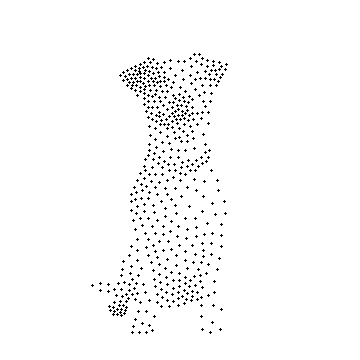
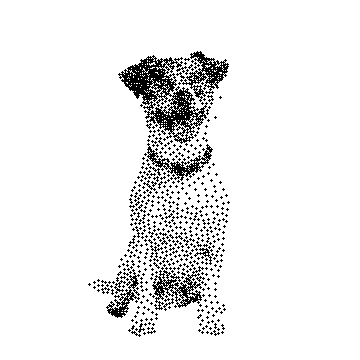
Implementing WORKING Tour Output
- One line fix in obtaining the best coordinates

Changed region(s): [[0.2444, 0.1222, 0.6417, 0.9472]]

diff --git a/src/main/java/edu/stockton/project/TSPArtExample.java b/src/main/java/edu/stockton/project/TSPArtExample.java
@@ -1,10 +1,8 @@
 package edu.stockton.project;
 
-import java.awt.Graphics2D;
-import java.awt.image.BufferedImage;
-import java.io.File;
+import java.awt.Color;
 import java.io.IOException;
-import javax.imageio.ImageIO;
+import java.util.Arrays;
 import org.cicirello.permutations.Permutation;
 import org.cicirello.search.SolutionCostPair;
 import org.cicirello.search.evo.FitnessProportionalSelection;
@@ -21,16 +19,13 @@ import org.knowm.xchart.XYSeries;
 import org.knowm.xchart.style.lines.SeriesLines;
 import org.knowm.xchart.style.markers.SeriesMarkers;
 
-import java.awt.Color;
-
-
 public class TSPArtExample {
   /* Private constructor to prevent instantiation. */
   private TSPArtExample() {}
 
   public static double[][] generateTour(double[][] points) {
     // int numCities = (int) CSVwriter.countLinesInCSV("output3.csv");
-    int maxGenerations = 1000;
+    int maxGenerations = 100000;
 
     double[] xPoints;
     double[] yPoints;
@@ -38,10 +33,17 @@ public class TSPArtExample {
     xPoints = points[0];
     yPoints = points[1];
 
+    StringBuilder printValue = new StringBuilder();
+    for (int i = 0; i < xPoints.length; i++) {
+      printValue.append("(").append(xPoints[i]).append(", ").append(yPoints[i]).append(") -> ");
+    }
+
+    System.out.println(printValue);
+
     TSP.Double problem = new TSP.Double(xPoints, yPoints);
 
     int populationSize = 100;
-    int numElite = 1;
+    int numElite = 10;
 
     double bestLength = Double.MAX_VALUE;
     Permutation bestPermutation = null;
@@ -51,40 +53,64 @@ public class TSPArtExample {
     System.out.println("-------------------------------------------------");
     System.out.printf("%-25s%12s%n", "EA", "best-tour-length");
     System.out.println("-------------------------------------------------");
-    for (double crossoverRate = 0.1; crossoverRate < 0.95; crossoverRate += 0.2) {
-      for (double mutationRate = 0.1; mutationRate < 0.95; mutationRate += 0.2) {
-        GenerationalEvolutionaryAlgorithm<Permutation> ea =
-            new GenerationalEvolutionaryAlgorithm<Permutation>(
-                populationSize,
-                new ReversalMutation(),
-                mutationRate,
-                new EnhancedEdgeRecombination(),
-                crossoverRate,
-                new PermutationInitializer(xPoints.length),
-                new InverseCostFitnessFunction<Permutation>(problem),
-                new FitnessProportionalSelection(),
-                numElite);
-        SolutionCostPair<Permutation> solution = ea.optimize(maxGenerations);
-        Permutation solutionPermutation = solution.getSolution();
-        double solutionLength = problem.value(solutionPermutation);
-        String gaStr = String.format("C=%.1f; M=%.1f", crossoverRate, mutationRate);
-        System.out.printf("%-25s%12f%n", gaStr, solutionLength);
-        System.out.println(solutionPermutation);
+    //    for (double crossoverRate = 0.1; crossoverRate < 0.95; crossoverRate += 0.2) {
+    //      for (double mutationRate = 0.1; mutationRate < 0.95; mutationRate += 0.2) {
+    double mutationRate = 0.3;
+    double crossoverRate = 0.1;
+    GenerationalEvolutionaryAlgorithm<Permutation> ea =
+        new GenerationalEvolutionaryAlgorithm<Permutation>(
+            populationSize,
+            new ReversalMutation(),
+            mutationRate,
+            new EnhancedEdgeRecombination(),
+            crossoverRate,
+            new PermutationInitializer(xPoints.length),
+            new InverseCostFitnessFunction<Permutation>(problem),
+            new FitnessProportionalSelection(),
+            numElite);
+    SolutionCostPair<Permutation> solution = ea.optimize(maxGenerations);
+    Permutation solutionPermutation = solution.getSolution();
+    double solutionLength = problem.value(solutionPermutation);
+    String gaStr = String.format("C=%.1f; M=%.1f", crossoverRate, mutationRate);
+    System.out.printf("%-25s%12f%n", gaStr, solutionLength);
 
-        if (bestLength > solutionLength) {
-          bestPermutation = solutionPermutation;
-          bestLength = solutionLength;
-        }
-      }
+    if (bestLength > solutionLength) {
+      bestPermutation = solutionPermutation;
+      bestLength = solutionLength;
     }
+    //      }
+    //    }
 
     // Obtain best coordinates
-    int j = 0;
     double[][] tour = new double[xPoints.length][2];
+    assert bestPermutation != null;
+    printValue = new StringBuilder();
+    int j = 0;
     for (int i : bestPermutation.toArray()) {
       tour[j] = new double[] {xPoints[i], yPoints[i]};
       j++;
+      printValue.append("(").append(xPoints[i]).append(", ").append(yPoints[i]).append(") -> ");
     }
+
+    double[] distances = new double[xPoints.length + 1];
+    for (int i = 1; i < xPoints.length; i++) {
+      double x1 = tour[i - 1][0];
+      double y1 = tour[i - 1][1];
+      double x2 = tour[i][0];
+      double y2 = tour[i][1];
+      distances[i] = Math.sqrt(Math.pow(x2 - x1, 2) + Math.pow(y2 - y1, 2));
+      System.out.print(distances[i] + ", ");
+    }
+
+    System.out.println();
+
+    System.out.println("MAX DISTANCE:");
+    System.out.println(Arrays.stream(distances).max());
+
+    System.out.println("MIN DISTANCE:");
+    System.out.println(Arrays.stream(distances).min());
+
+    System.out.println(printValue);
 
     return tour;
   }
@@ -95,7 +121,6 @@ public class TSPArtExample {
     double[] xData = new double[tour.length + 1];
     double[] yData = new double[tour.length + 1];
 
-
     for (int i = 0; i < tour.length; i++) {
       xData[i] = tour[i][0];
       yData[i] = dimensions[1] - tour[i][1]; // Invert y coordinates
@@ -105,13 +130,8 @@ public class TSPArtExample {
     xData[tour.length] = tour[0][0];
     yData[tour.length] = tour[0][1];
 
-
-
     // Create chart
-    XYChart chart = new XYChartBuilder()
-            .width(dimensions[0])
-            .height(dimensions[1])
-            .build();
+    XYChart chart = new XYChartBuilder().width(dimensions[0]).height(dimensions[1]).build();
 
     // Customize chart
     chart.getStyler().setChartBackgroundColor(Color.white);
@@ -138,40 +158,5 @@ public class TSPArtExample {
     series.setLineWidth(1.0f);
 
     BitmapEncoder.saveBitmap(chart, outputPath, BitmapEncoder.BitmapFormat.PNG);
-
-
-//    BufferedImage image =
-//        new BufferedImage(dimensions[0], dimensions[1], BufferedImage.TYPE_BYTE_GRAY);
-//
-//    Graphics2D g2d = image.createGraphics();
-//
-//    drawLine(tour[0], tour[1], g2d);
-//    for (int i = 1; i < tour.length; i++) {
-//      drawLine(tour[i - 1], tour[i], g2d);
-//    }
-//    drawLine(tour[tour.length - 1], tour[0], g2d);
-//
-//    g2d.dispose();
-//
-//    ImageIO.write(image, "png", new File(outputPath));
-//    System.out.println("Image saved to " + outputPath);
-
-    //    Graphics2D image =
-    //        new BufferedImage(dimensions[0], dimensions[1], BufferedImage.TYPE_BYTE_GRAY)
-    //            .createGraphics();
-
-    //    drawLine(tour[0], tour[1], image);
-    //    for (int i = 1; i < tour.length; i++) {
-    //      drawLine(tour[i - 1], tour[i], image);
-    //    }
-    //    drawLine(tour[tour.length - 1], tour[0], image);
-  }
-
-  private static void drawLine(double[] point1, double[] point2, Graphics2D image) {
-    double x1 = point1[0];
-    double x2 = point2[0];
-    double y1 = point1[1];
-    double y2 = point2[1];
-    //    image.drawLine(x1, y1, x2, y2);
   }
 }

diff --git a/src/main/java/edu/stockton/project/Main.java b/src/main/java/edu/stockton/project/Main.java
@@ -2,7 +2,6 @@ package edu.stockton.project;
 
 import java.awt.image.BufferedImage;
 import java.io.IOException;
-import java.util.Arrays;
 
 /** Main class for the Evolutionary Computation Project. */
 public class Main {
@@ -10,16 +9,16 @@ public class Main {
     String inputImage;
     String outputPath;
     double scaleFactor = 3.0;
-//    if (args.length > 0) {
-//      inputImage = "src/main/java/edu/stockton/project/dog.jpg";
-//    } else {
-//      inputImage = args[0];
-//    }
-//    if (args.length > 1) {
-//      outputPath = "src/main/java/edu/stockton/project/dog-out.jpg";
-//    } else {
-//      outputPath = args[1];
-//    }
+    //    if (args.length > 0) {
+    //      inputImage = "src/main/java/edu/stockton/project/dog.jpg";
+    //    } else {
+    //      inputImage = args[0];
+    //    }
+    //    if (args.length > 1) {
+    //      outputPath = "src/main/java/edu/stockton/project/dog-out.jpg";
+    //    } else {
+    //      outputPath = args[1];
+    //    }
 
     inputImage = "src/main/java/edu/stockton/project/dogwhite.jpg";
     outputPath = "src/main/java/edu/stockton/project/dog-out";
@@ -31,17 +30,18 @@ public class Main {
 
     double[][] tour = TSPArtExample.generateTour(scaledPoints);
 
-    int[] scaledDimensions = new int[] {
-            (int) (rawGrayscale.getWidth() * scaleFactor),
-            (int) (rawGrayscale.getHeight() * scaleFactor)
-    };
+    int[] scaledDimensions =
+        new int[] {
+          (int) (rawGrayscale.getWidth() * scaleFactor),
+          (int) (rawGrayscale.getHeight() * scaleFactor)
+        };
 
-    TSPArtExample.drawTour(
-        tour, outputPath, scaledDimensions);
+    TSPArtExample.drawTour(tour, outputPath, scaledDimensions);
   }
 
   /**
    * Scale coordinates for higher resolution output.
+   *
    * @param points Points array of [x, y]
    * @param scale Scale factor
    * @return Scaled points

diff --git a/src/main/java/edu/stockton/project/EvolutionaryAlgorithmLab.java b/src/main/java/edu/stockton/project/EvolutionaryAlgorithmLab.java
@@ -27,7 +27,7 @@ public final class EvolutionaryAlgorithmLab {
     Configurator.configureRandomGenerator(101);
 
     int numCities = 100;
-    int maxDistance = 1000000;
+    int maxDistance = 10000000;
     boolean symmetric = true;
     boolean triangleInequality = true;
     long seed = 42;

diff --git a/src/main/java/edu/stockton/project/VoronoiStippler.java b/src/main/java/edu/stockton/project/VoronoiStippler.java
@@ -46,7 +46,7 @@ public class VoronoiStippler {
     this.width = image.getWidth();
     this.height = image.getHeight();
     this.density = computeDensityFunction(image);
-    this.numStipples = 500;
+    this.numStipples = 2000;
   }
 
   public int getNumStipples() {
